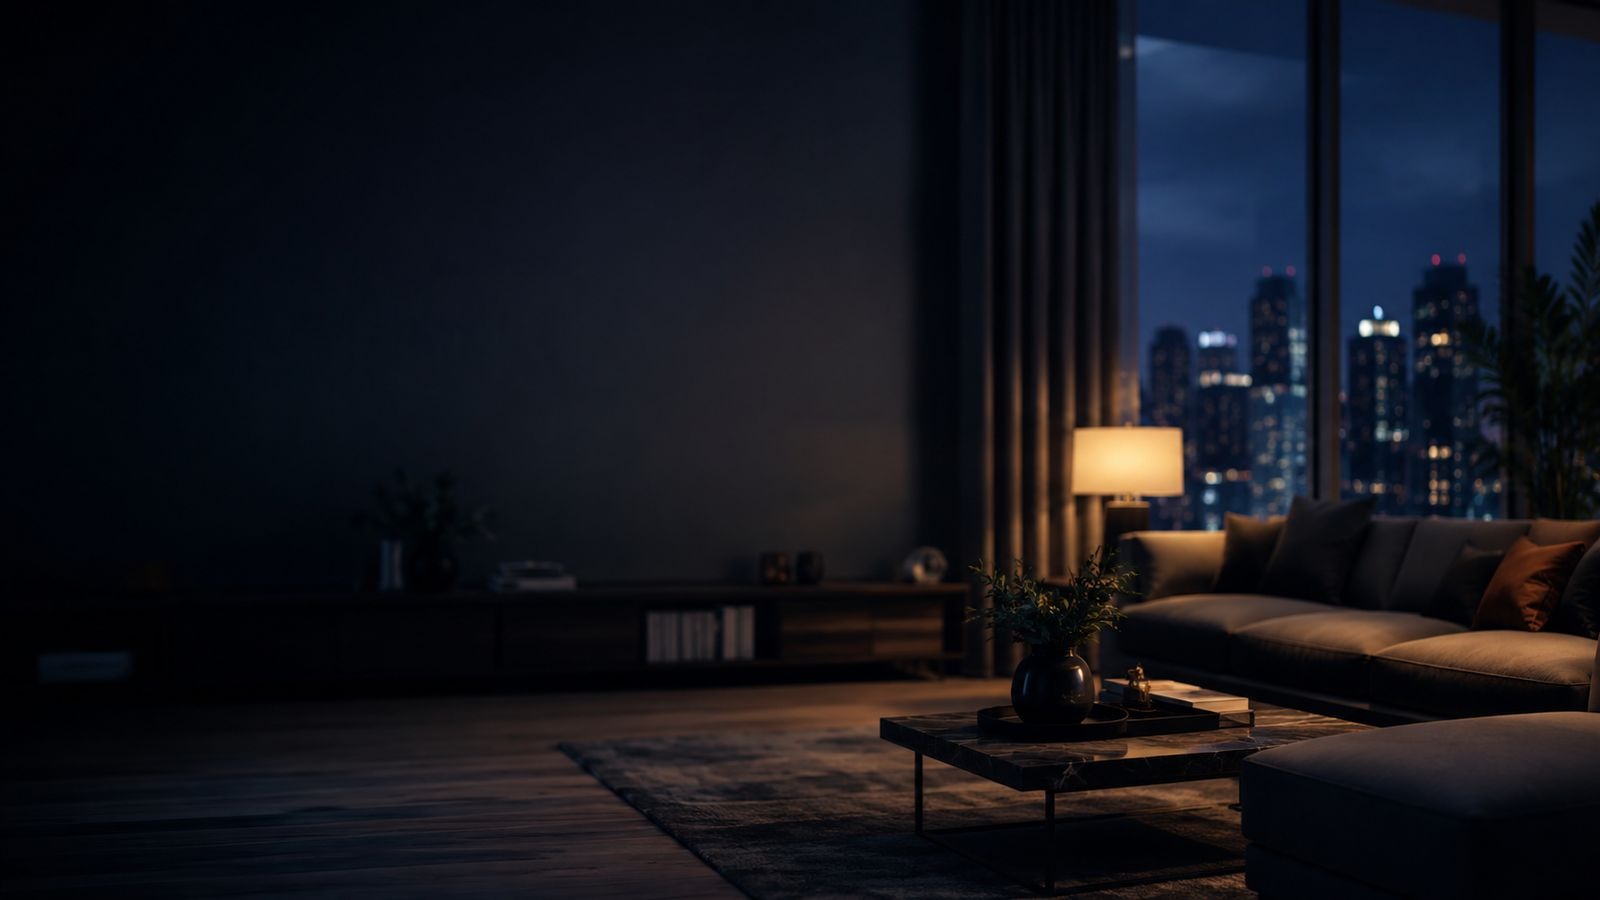
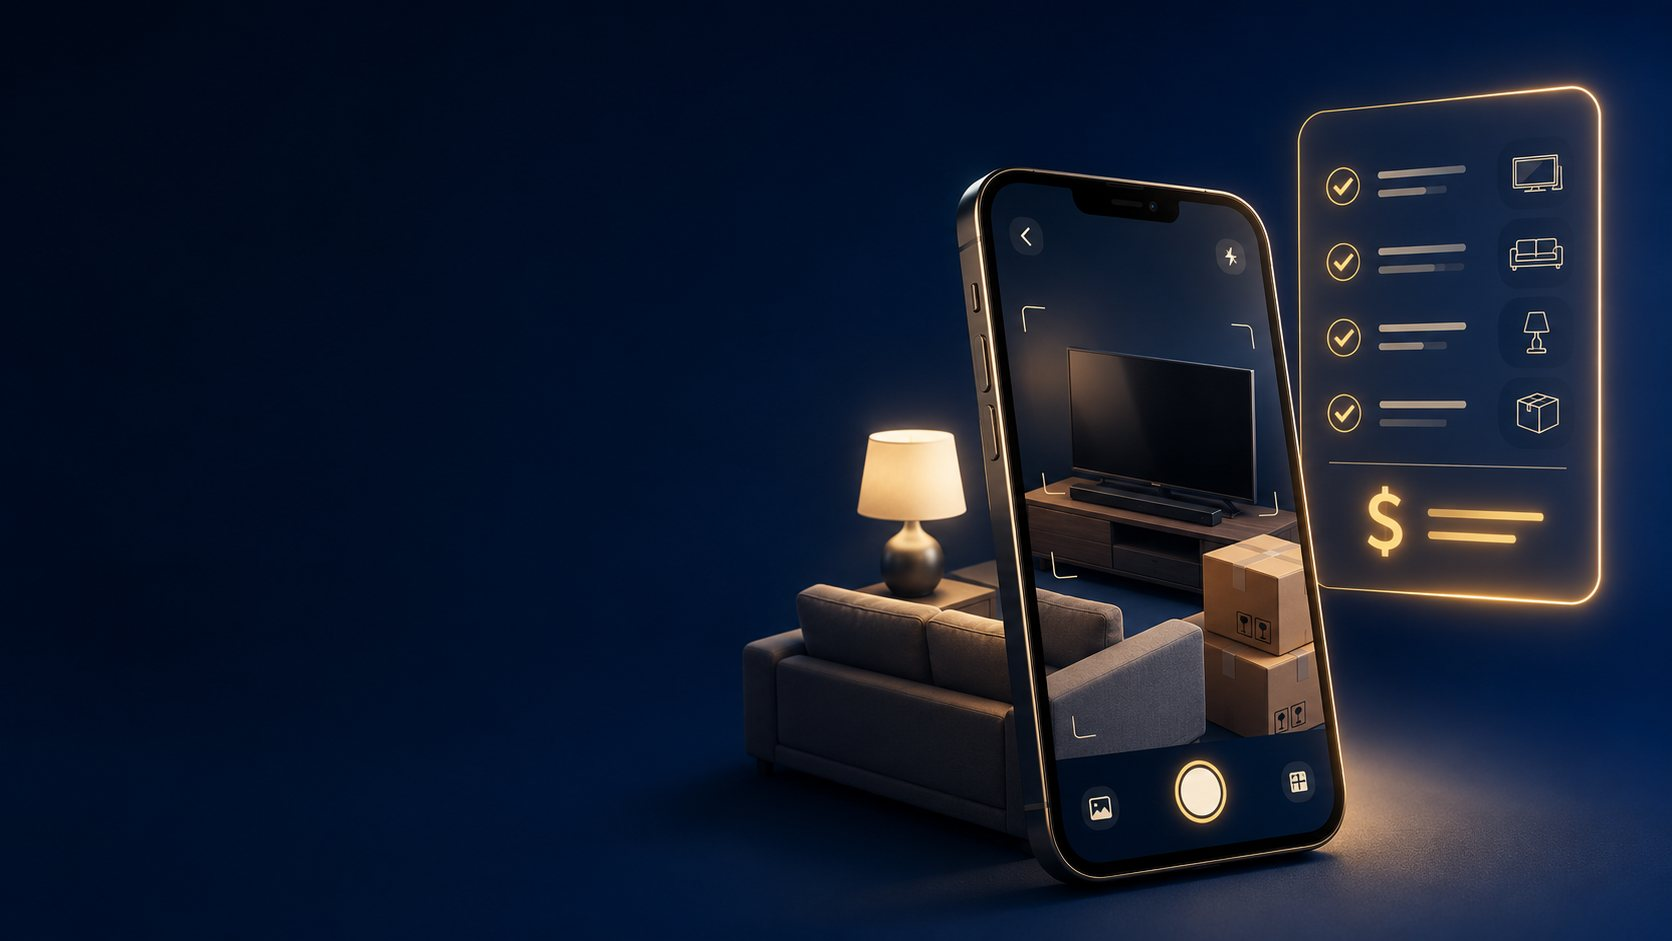
Redesign claims inventory hero in navy/gold style
Replace the three clashing gradient buttons and five cramped feature
chips with a focused, autoestimate-style hero: gold pill badge, headline
with a gold accent, a single "Start My Inventory" CTA, and three
checkmark trust chips over a deep-navy overlay. Add a new "How would you
like to start?" section with three clean navy-tile cards (Scan / Add /
Print). Trim the redundant "Snap it. Price it. Send it." 3-step block to
a warm reassurance band. Swap in the new optimized navy hero image.

diff --git a/claims-center/claims-inventory.html b/claims-center/claims-inventory.html
@@ -123,60 +123,185 @@
             scroll-margin-top: 104px;
         }
 
-        .hero-quick-actions {
-            display: grid;
-            grid-template-columns: repeat(3, minmax(0, 1fr));
-            gap: 10px;
-            max-width: 640px;
-            margin: 18px 0 14px;
+        /* ===== HERO (clean, single-CTA) ===== */
+        .hero-badge {
+            display: inline-flex;
+            align-items: center;
+            gap: 8px;
+            font-size: 11.5px;
+            font-weight: 800;
+            letter-spacing: 0.05em;
+            text-transform: uppercase;
+            color: #f3e6bd;
+            background: rgba(200,168,78,0.15);
+            border: 1px solid rgba(200,168,78,0.45);
+            padding: 6px 14px;
+            border-radius: 999px;
+            margin-bottom: 18px;
         }
 
-        .hero-quick-action,
-        .hero-feature-chip {
+        .hero-badge-dot {
+            width: 7px;
+            height: 7px;
+            border-radius: 999px;
+            background: #E0C878;
+            animation: heroPulse 1.8s infinite;
+        }
+
+        @keyframes heroPulse {
+            0%   { box-shadow: 0 0 0 0 rgba(224,200,120,0.55); }
+            70%  { box-shadow: 0 0 0 8px rgba(224,200,120,0); }
+            100% { box-shadow: 0 0 0 0 rgba(224,200,120,0); }
+        }
+
+        .hero-title {
+            font-family: 'Outfit', sans-serif;
+            font-weight: 800;
+            font-size: clamp(1.9rem, 6vw, 3rem);
+            line-height: 1.08;
+            color: #fff;
+            margin-bottom: 14px;
+        }
+
+        .hero-accent { color: #E0C878; }
+
+        .hero-sub {
+            color: #c7d4e8;
+            font-size: 15px;
+            line-height: 1.6;
+            max-width: 34rem;
+            margin-bottom: 24px;
+        }
+
+        .hero-cta-row { margin-bottom: 22px; }
+
+        .hero-cta {
+            display: inline-flex;
+            align-items: center;
+            gap: 10px;
             text-decoration: none;
+            font-weight: 800;
+            font-size: 16px;
+            color: #001a3d;
+            background: linear-gradient(180deg, #E0C878, #C8A84E);
+            padding: 15px 26px;
+            border-radius: 16px;
+            box-shadow: 0 14px 30px rgba(200,168,78,0.32);
+            -webkit-tap-highlight-color: transparent;
+            transition: transform .15s ease, box-shadow .15s ease, background .15s ease;
+        }
+
+        .hero-cta:hover {
+            background: linear-gradient(180deg, #EBD89A, #D4B65E);
+            box-shadow: 0 18px 38px rgba(200,168,78,0.42);
+        }
+
+        .hero-cta:active { transform: scale(0.98); }
+        .hero-cta-arrow { font-size: 13px; transition: transform .15s ease; }
+        .hero-cta:hover .hero-cta-arrow { transform: translateX(3px); }
+
+        .hero-trust {
+            display: flex;
+            flex-wrap: wrap;
+            gap: 8px 20px;
+            font-size: 13px;
+            color: #aebfd6;
+        }
+
+        .hero-trust-item { display: inline-flex; align-items: center; gap: 7px; }
+        .hero-trust-item i { color: #E0C878; font-size: 12px; }
+
+        /* ===== CHOOSE HOW TO START cards ===== */
+        .start-head { text-align: center; margin-bottom: 24px; }
+
+        .start-cards {
+            display: grid;
+            grid-template-columns: repeat(3, minmax(0, 1fr));
+            gap: 16px;
+        }
+
+        .start-card {
+            position: relative;
+            display: flex;
+            flex-direction: column;
+            text-decoration: none;
+            background: #fff;
+            border: 1px solid #e2e8f0;
+            border-radius: 20px;
+            padding: 22px 20px;
+            box-shadow: 0 1px 2px rgba(15,23,42,0.04);
+            transition: transform .18s ease, box-shadow .18s ease, border-color .18s ease;
             -webkit-tap-highlight-color: transparent;
         }
 
-        .hero-quick-action {
-            min-height: 50px;
-            border-radius: 14px;
+        .start-card:hover {
+            transform: translateY(-3px);
+            border-color: #C8A84E;
+            box-shadow: 0 18px 36px rgba(15,23,42,0.10);
+        }
+
+        .start-card-num {
+            position: absolute;
+            top: 14px;
+            right: 18px;
+            font-family: 'Outfit', sans-serif;
+            font-weight: 800;
+            font-size: 44px;
+            line-height: 1;
+            color: #f1f5f9;
+            transition: color .18s ease;
+        }
+
+        .start-card:hover .start-card-num { color: rgba(200,168,78,0.28); }
+
+        .start-card-icon {
+            width: 52px;
+            height: 52px;
+            border-radius: 15px;
             display: flex;
             align-items: center;
             justify-content: center;
-            gap: 8px;
-            padding: 0 14px;
-            font-size: 13px;
-            font-weight: 900;
-            border: 1px solid rgba(255,255,255,0.16);
+            background: #003f87;
             color: #fff;
-            background: rgba(255,255,255,0.10);
-            box-shadow: 0 10px 24px rgba(0,0,0,0.14);
+            font-size: 20px;
+            margin-bottom: 16px;
+            box-shadow: 0 8px 18px rgba(0,63,135,0.22);
+            transition: background .18s ease, color .18s ease;
         }
 
-        .hero-quick-action.primary {
-            color: #082f49;
-            background: linear-gradient(135deg, #22d3ee, #38bdf8);
-            border-color: rgba(255,255,255,0.35);
+        .start-card:hover .start-card-icon {
+            background: linear-gradient(180deg, #E0C878, #C8A84E);
+            color: #001a3d;
         }
 
-        .hero-quick-action.secondary {
-            color: #052e16;
-            background: linear-gradient(135deg, #34d399, #86efac);
-            border-color: rgba(255,255,255,0.32);
+        .start-card-title {
+            font-family: 'Outfit', sans-serif;
+            font-weight: 700;
+            font-size: 17px;
+            color: #0f172a;
+            margin-bottom: 6px;
         }
 
-        .hero-quick-action.worksheet {
-            color: #451a03;
-            background: linear-gradient(135deg, #fbbf24, #fde68a);
-            border-color: rgba(255,255,255,0.32);
+        .start-card-desc {
+            font-size: 13.5px;
+            line-height: 1.5;
+            color: #64748b;
+            margin-bottom: 16px;
+            flex: 1 1 auto;
         }
 
-        .hero-feature-chip {
+        .start-card-cta {
             display: inline-flex;
             align-items: center;
-            gap: 6px;
-            color: #eef2ff;
+            gap: 7px;
+            font-weight: 700;
+            font-size: 14px;
+            color: #003f87;
+            transition: gap .18s ease;
         }
+
+        .start-card:hover .start-card-cta { gap: 11px; }
+        .start-card-cta i { font-size: 12px; }
 
         .inventory-mobile-dock {
             display: none;
@@ -258,19 +383,51 @@
                 display: none !important;
             }
 
-            .hero-quick-actions {
-                grid-template-columns: repeat(2, minmax(0, 1fr));
-                margin-top: 16px;
+            .hero-cta {
+                display: flex;
+                width: 100%;
+                justify-content: center;
             }
 
-            .hero-quick-action {
-                min-height: 52px;
-                font-size: 13px;
+            .hero-trust {
+                flex-direction: column;
+                gap: 7px;
             }
 
-            .hero-quick-action.primary {
-                grid-column: 1 / -1;
-                font-size: 15px;
+            .start-cards {
+                grid-template-columns: 1fr;
+                gap: 12px;
+            }
+
+            .start-card {
+                display: grid;
+                grid-template-columns: auto 1fr;
+                grid-template-areas:
+                    "icon title"
+                    "icon desc"
+                    "icon cta";
+                column-gap: 16px;
+                row-gap: 3px;
+                padding: 16px 18px;
+            }
+
+            .start-card-icon {
+                grid-area: icon;
+                align-self: center;
+                width: 46px;
+                height: 46px;
+                font-size: 18px;
+                margin-bottom: 0;
+            }
+
+            .start-card-title { grid-area: title; }
+            .start-card-desc { grid-area: desc; margin-bottom: 6px; }
+            .start-card-cta { grid-area: cta; }
+
+            .start-card-num {
+                font-size: 34px;
+                top: 12px;
+                right: 16px;
             }
 
             .claims-how-inner {
@@ -363,7 +520,7 @@
     </nav>
 
     <!-- ========== HERO ========== -->
-    <section class="claims-hero pt-24 md:pt-32 pb-10 md:pb-14 text-white relative overflow-hidden" style="background-color:#0f172a; background-image:linear-gradient(100deg, rgba(15,23,42,0.93) 0%, rgba(17,18,52,0.82) 55%, rgba(30,27,75,0.58) 100%), url('claims-inventory-hero.jpg'); background-size:cover; background-position:center;">
+    <section class="claims-hero pt-24 md:pt-32 pb-10 md:pb-14 text-white relative overflow-hidden" style="background-color:#001a3d; background-image:linear-gradient(105deg, rgba(0,15,38,0.96) 0%, rgba(0,30,72,0.88) 46%, rgba(0,42,94,0.55) 76%, rgba(0,52,120,0.30) 100%), url('claims-inventory-hero.jpg'); background-size:cover; background-position:center right;">
         <div class="max-w-4xl mx-auto px-4 sm:px-6 relative z-10">
             <!-- Breadcrumb -->
             <nav class="claims-hero-breadcrumb flex items-center gap-2 text-xs text-indigo-300/70 mb-6">
@@ -373,26 +530,52 @@
                 <i class="fas fa-chevron-right text-[10px]"></i>
                 <span class="text-indigo-200">Inventory Tool</span>
             </nav>
-            <div class="flex items-center gap-3 mb-4">
-                <div class="w-12 h-12 rounded-2xl bg-gradient-to-br from-amber-400 to-orange-500 flex items-center justify-center shadow-lg">
-                    <i class="fas fa-clipboard-list text-white text-xl"></i>
-                </div>
-                <div>
-                    <h1 class="font-display font-extrabold text-2xl sm:text-3xl md:text-4xl">Claims Inventory Tool</h1>
-                </div>
+            <span class="hero-badge"><span class="hero-badge-dot"></span> Free Tool &middot; AI-Powered &middot; 100% Private</span>
+            <h1 class="hero-title">Lost or damaged items?<br><span class="hero-accent">Build your claim list</span> in minutes.</h1>
+            <p class="hero-sub">After a fire, storm, theft, or water loss, list what you lost — our AI prices each item and builds a clean report you can hand your insurance adjuster.</p>
+            <div class="hero-cta-row">
+                <a href="#add-item-section" class="hero-cta">
+                    <i class="fas fa-clipboard-list"></i> Start My Inventory
+                    <i class="fas fa-arrow-right hero-cta-arrow"></i>
+                </a>
             </div>
-            <p class="text-indigo-200 text-sm sm:text-base max-w-2xl leading-relaxed mb-4">Make a list of everything you lost or that was damaged. Our AI looks up current prices for you, and you can download a professional report to give your insurance company.</p>
-            <div class="hero-quick-actions">
-                <a href="#scan-list-section" class="hero-quick-action primary"><i class="fas fa-camera"></i> Scan Worksheet</a>
-                <a href="#add-item-section" class="hero-quick-action secondary"><i class="fas fa-plus-circle"></i> Add One Item</a>
-                <a href="home-claim-inventory-worksheet-bill-layne-insurance.pdf" download class="hero-quick-action worksheet"><i class="fas fa-file-arrow-down"></i> Worksheet</a>
+            <div class="hero-trust">
+                <span class="hero-trust-item"><i class="fas fa-check"></i> AI looks up prices</span>
+                <span class="hero-trust-item"><i class="fas fa-check"></i> Professional PDF report</span>
+                <span class="hero-trust-item"><i class="fas fa-check"></i> Stays private on your device</span>
             </div>
-            <div class="flex flex-wrap gap-3 text-xs">
-                <a href="#inventory-section" class="hero-feature-chip bg-white/10 backdrop-blur-sm px-3 py-1.5 rounded-full border border-white/10"><i class="fas fa-robot text-amber-400"></i> AI-Powered Pricing</a>
-                <a href="#scan-list-section" class="hero-feature-chip bg-white/10 backdrop-blur-sm px-3 py-1.5 rounded-full border border-white/10"><i class="fas fa-file-pen text-cyan-300"></i> Paper List Scan</a>
-                <a href="#inventory-section" class="hero-feature-chip bg-white/10 backdrop-blur-sm px-3 py-1.5 rounded-full border border-white/10"><i class="fas fa-file-pdf text-red-400"></i> PDF Export</a>
-                <a href="#acv-explanation" class="hero-feature-chip bg-white/10 backdrop-blur-sm px-3 py-1.5 rounded-full border border-white/10"><i class="fas fa-calculator text-green-400"></i> ACV Calculator</a>
-                <a href="#privacy-note" class="hero-feature-chip bg-white/10 backdrop-blur-sm px-3 py-1.5 rounded-full border border-white/10"><i class="fas fa-lock text-blue-400"></i> 100% Private</a>
+        </div>
+    </section>
+
+    <!-- ========== CHOOSE HOW TO START ========== -->
+    <section class="bg-slate-50 border-b border-slate-100">
+        <div class="max-w-4xl mx-auto px-4 sm:px-6 py-8 md:py-12">
+            <div class="start-head">
+                <h2 class="font-display font-extrabold text-xl sm:text-2xl text-slate-900">How would you like to start?</h2>
+                <p class="text-slate-500 text-sm mt-1">Pick whatever's easiest — you can mix and match.</p>
+            </div>
+            <div class="start-cards">
+                <a href="#scan-list-section" class="start-card">
+                    <span class="start-card-num">1</span>
+                    <span class="start-card-icon"><i class="fas fa-camera"></i></span>
+                    <span class="start-card-title">Scan a paper list</span>
+                    <span class="start-card-desc">Write your items on the worksheet, snap one photo, and AI turns the whole page into your inventory.</span>
+                    <span class="start-card-cta">Take a photo <i class="fas fa-arrow-right"></i></span>
+                </a>
+                <a href="#add-item-section" class="start-card">
+                    <span class="start-card-num">2</span>
+                    <span class="start-card-icon"><i class="fas fa-plus-circle"></i></span>
+                    <span class="start-card-title">Add items one at a time</span>
+                    <span class="start-card-desc">Type each item, or photograph it and let AI fill in the details and current price for you.</span>
+                    <span class="start-card-cta">Add an item <i class="fas fa-arrow-right"></i></span>
+                </a>
+                <a href="home-claim-inventory-worksheet-bill-layne-insurance.pdf" download class="start-card">
+                    <span class="start-card-num">3</span>
+                    <span class="start-card-icon"><i class="fas fa-file-arrow-down"></i></span>
+                    <span class="start-card-title">Print the worksheet</span>
+                    <span class="start-card-desc">Prefer pen and paper first? Download a printable worksheet to fill out by hand, then scan it back in.</span>
+                    <span class="start-card-cta">Download PDF <i class="fas fa-arrow-right"></i></span>
+                </a>
             </div>
         </div>
     </section>
@@ -405,13 +588,10 @@
                 <img src="claims-inventory-illustration.png" width="980" height="735" loading="lazy" decoding="async" alt="A homeowner photographs household items while the tool finds prices and builds a PDF report for the insurance adjuster" class="w-full rounded-2xl shadow-sm border border-slate-100">
             </picture>
             <div>
-                <span class="inline-block text-xs font-bold uppercase tracking-wide text-indigo-600 bg-indigo-50 px-3 py-1 rounded-full mb-3">How it works</span>
-                <h2 class="font-display font-extrabold text-xl sm:text-2xl text-slate-900 mb-4">Snap it. Price it. Send it.</h2>
-                <ul class="space-y-3 text-sm sm:text-base text-slate-600">
-                    <li class="flex items-start gap-3"><i class="fas fa-camera text-indigo-500 mt-1"></i><span>Snap one item, scan a paper list, or describe each item you lost or that was damaged.</span></li>
-                    <li class="flex items-start gap-3"><i class="fas fa-robot text-violet-500 mt-1"></i><span>Our AI looks up what each item costs to buy new today.</span></li>
-                    <li class="flex items-start gap-3"><i class="fas fa-file-pdf text-red-500 mt-1"></i><span>Download a clean PDF report to hand your insurance adjuster.</span></li>
-                </ul>
+                <span class="inline-block text-xs font-bold uppercase tracking-wide text-indigo-600 bg-indigo-50 px-3 py-1 rounded-full mb-3">You're not alone in this</span>
+                <h2 class="font-display font-extrabold text-xl sm:text-2xl text-slate-900 mb-3">Free to use. Private. Built to help.</h2>
+                <p class="text-sm sm:text-base text-slate-600 leading-relaxed mb-4">Losing your things to a fire, storm, or theft is stressful enough. This tool is completely free, your list stays on your own device, and the report is yours to keep and share with your adjuster.</p>
+                <p class="text-sm sm:text-base text-slate-600 leading-relaxed">Stuck, or just want a hand walking through it? Call <a href="tel:[phone redacted]" class="font-bold text-indigo-600 hover:text-indigo-800">[phone redacted]</a> and talk to a real person right here in Elkin — not a call center.</p>
             </div>
         </div>
     </section>